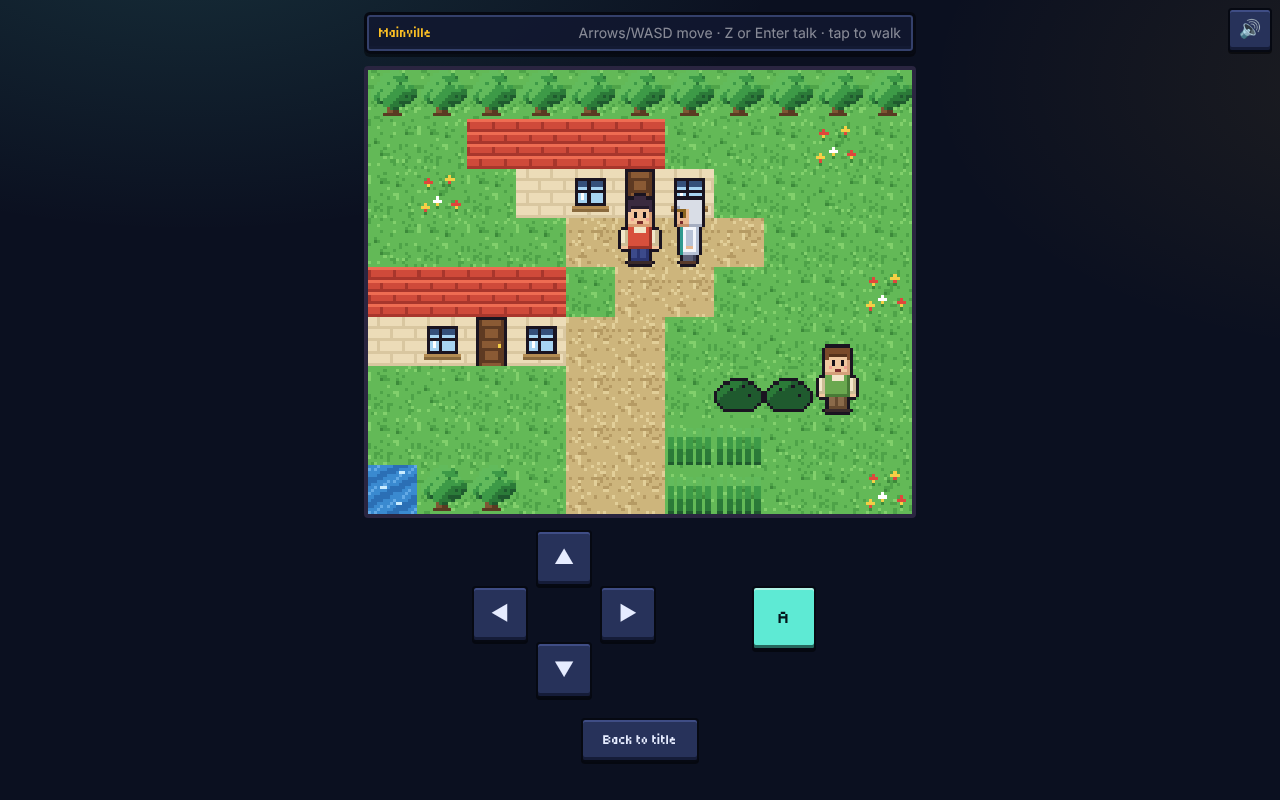
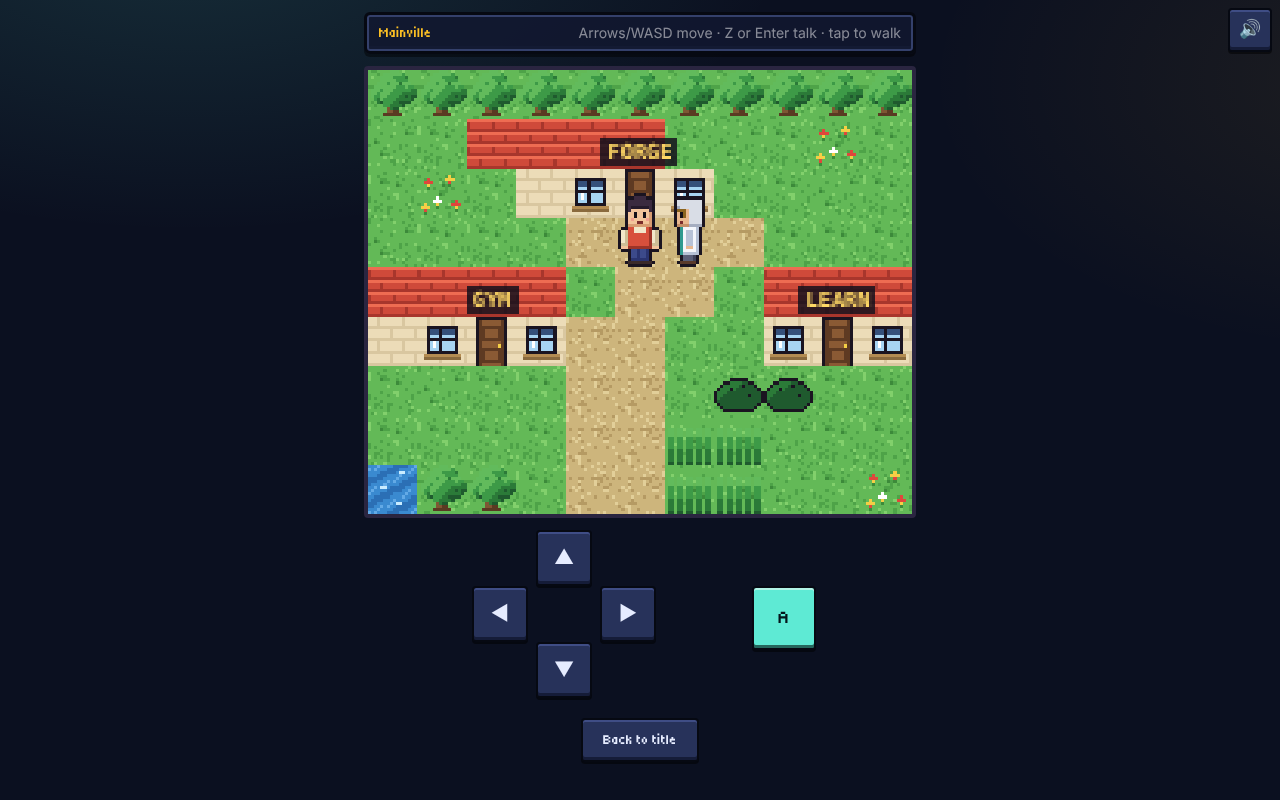
docs: slice review, tour covers /learn, refreshed slice shots (B11c)
Claude-Session: https://claude.ai/code/session_01XcZwLZyCu5rqC4o9xf8R2P

Changed region(s): [[0.5938, 0.3125, 0.7188, 0.5312], [0.4688, 0.1562, 0.5312, 0.2188], [0.3438, 0.3438, 0.4062, 0.4062]]

diff --git a/ROADMAP.md b/ROADMAP.md
@@ -84,11 +84,11 @@ Goal: a new player can start a game, walk Mainville, get the starter, take the f
   - [x] B9d2. The victory scene and the Arrayling evolution animation (white-silhouette morph) after the badge.
   - (original B9d text) Gym polish: Warden Brace and the lighthouse backdrop on the battle stage itself (replace the recoloured Arrayling foe), the victory scene and the Arrayling evolution animation, a link to `/gym` from the title/overworld.
 - [x] B10. **Audio v1:** the WebAudio synth, a Mainville theme, a battle theme and SFX (menu, hit, AC, WA, TLE, CE, level-up), with volume settings.
-- [ ] B11. **Vertical-slice polish pass:**
+- [x] B11. **Vertical-slice polish pass:**
   - [x] B11a. Screenshot tour of every player-facing screen (`scripts/tour.mjs`, desktop + iPhone 14), fix overlap of the sound button with page headers, save reference shots in `docs/slice/`.
   - [x] B11b1. Mainville doors lead to the Forge and the Gym (`doors` in map defs, FORGE/GYM tags, `scripts/smoke-doors.mjs`).
   - [x] B11b2. Academy (`/learn`) with a Mainville LEARN door, lesson progress saved in flags. (rest of B11b: lesson door/NPC and wiring lessons and cards into progression.) Original: play the slice end to end from a fresh save (title → Mainville → lesson → forge → gym → evolution) and fix flow gaps: link the overworld to the lesson, forge and gym; wire lessons and cards into progression.
-  - [ ] B11c. Slice review entry in PROGRESS.md after B11b.
+  - [x] B11c. Slice review entry in PROGRESS.md after B11b.
   - play the whole slice from a fresh save via Playwright on desktop and iPhone 14, screenshot every screen, fix rough edges
   - record a playthrough GIF or screenshots in `docs/`
   - write a short "slice review" entry in PROGRESS.md (what feels good, what doesn't)

diff --git a/PROGRESS.md b/PROGRESS.md
@@ -329,3 +329,11 @@ Append a dated entry after every run: what changed, how it was verified (command
 - CI/deploy: `gh` is unavailable here, so Actions status was not confirmed.
 - Known gaps: cards practised inside lessons and the forge do not feed SRS yet (C1); the gym is not gated on lessons.
 - Next: B11c (slice review entry in PROGRESS.md).
+
+## 2026-11-04: B11c Slice review (B11 complete)
+- `scripts/tour.mjs` now includes `/learn`; reference shots in `docs/slice/` refreshed (title, play, learn, forge, gym, dev pages; desktop and iPhone 14), shot from the static export served under `/algo-clash`.
+- **Slice review.** Feels good: the title's Start/Learn/Gym/Forge hub; Mainville with FORGE/GYM/LEARN doors; the pixel UI and 44 px targets on iPhone; the gym with Warden Brace and the evolution scene; audio dock on every page.
+- Feels weak / next: lesson, forge and gym progress are not yet linked (the gym is not gated on lessons; cards do not feed SRS, so C1 is next); the party and Vectorling are not used in battles; one region only; the overworld has no NPC quest pointing at the Academy; audio unverified by ear; the Forge is one long scroll.
+- Verified: `npm run lint` (2 existing warnings), `typecheck`, `npm test` (409 pass, native g++), `npm run build`, `build:pages`; `tour.mjs`: no console errors, no horizontal overflow at either size; screenshots reviewed. No new content, so `content:verify` unchanged.
+- CI/deploy: `gh` is unavailable here, so not confirmed.
+- Next: C1 (SRS and mastery).
